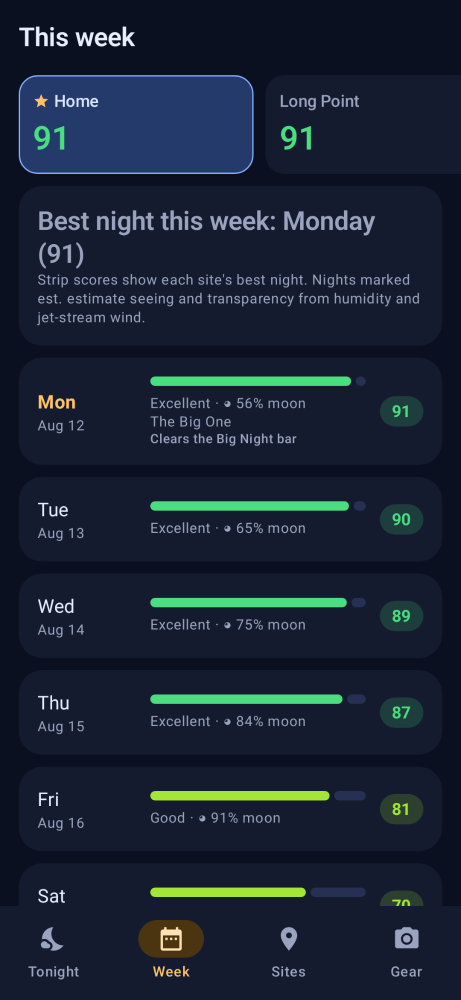
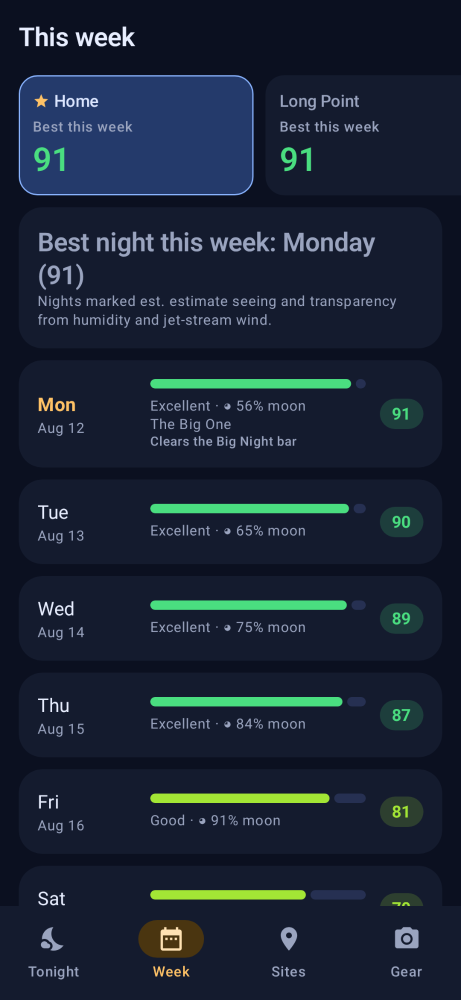
Label week site chips as each site's best night
The chips on Week used the same card as Tonight, but the number is
each site's best night. "Best this week" on the chip says which
number that is. Tonight's chips still show tonight's score.

diff --git a/app/src/test/kotlin/app/nightbrief/app/ui/WhimsyUiTest.kt b/app/src/test/kotlin/app/nightbrief/app/ui/WhimsyUiTest.kt
@@ -17,6 +17,7 @@ import app.nightbrief.app.AppViewModel
 import app.nightbrief.app.ui.common.Format
 import app.nightbrief.app.ui.theme.NightBriefTheme
 import app.nightbrief.app.ui.tonight.NightDetail
+import app.nightbrief.app.ui.tonight.TonightScreen
 import app.nightbrief.app.ui.week.WeekScreen
 import app.nightbrief.data.AppGraph
 import app.nightbrief.data.AppState
@@ -57,6 +58,8 @@ class WhimsyUiTest {
     val compose = createComposeRule()
 
     private val home = Site("home", "Home", 43.65, -79.38, "America/Toronto", bortle = 4)
+    private val cabin = Site("cabin", "Cabin", 44.0, -80.0, "America/Toronto", bortle = 3)
+    private val scoredNight = LocalDate.of(2024, 8, 12)
 
     @After
     fun tearDown() {
@@ -157,6 +160,59 @@ class WhimsyUiTest {
     }
 
     @Test
+    fun weekStripNamesEachSitesBestNightRatherThanTonight() {
+        val homeTonight = clearNight(home).scoreValue
+        val cabinTonight = clearNight(cabin).scoreValue
+        assertTrue("fixture should score tonight at home", homeTonight != null)
+        assertTrue("fixture should score tonight at the cabin", cabinTonight != null)
+        assertTrue(
+            "fixture tonight ($homeTonight, $cabinTonight) must differ from the week's best (40, 55)",
+            homeTonight != 40 && cabinTonight != 55 && homeTonight != 55 && cabinTonight != 40,
+        )
+        val vm = viewModelWith(bestNightBriefing())
+        compose.setContent {
+            NightBriefTheme {
+                WeekScreen(vm, onOpenNight = { _, _ -> }, onOpenEvents = {}, contentPadding = PaddingValues())
+            }
+        }
+        compose.waitUntil(timeoutMillis = 5_000) {
+            compose.onAllNodesWithText("40").fetchSemanticsNodes().isNotEmpty() &&
+                compose.onAllNodesWithText("55").fetchSemanticsNodes().isNotEmpty()
+        }
+        val captions = compose.onAllNodesWithText("Best this week").fetchSemanticsNodes().size
+        assertTrue("each week chip should name the score, found $captions", captions == 2)
+        assertTrue(
+            "week should show the best nights, not tonight's $homeTonight",
+            compose.onAllNodesWithText(homeTonight.toString()).fetchSemanticsNodes().isEmpty(),
+        )
+        assertTrue(
+            "the footnote should no longer explain the strip",
+            compose.onAllNodesWithText("Strip scores", substring = true).fetchSemanticsNodes().isEmpty(),
+        )
+    }
+
+    @Test
+    fun tonightStripLeavesTheScoreUnlabeled() {
+        val homeTonight = clearNight(home).scoreValue
+        assertTrue("fixture should score tonight", homeTonight != null)
+        val vm = viewModelWith(bestNightBriefing())
+        compose.setContent {
+            NightBriefTheme { TonightScreen(vm, onOpenSettings = {}, contentPadding = PaddingValues()) }
+        }
+        compose.waitUntil(timeoutMillis = 5_000) {
+            compose.onAllNodesWithText(homeTonight.toString()).fetchSemanticsNodes().isNotEmpty()
+        }
+        assertTrue(
+            "tonight's chips should not say the score is the week's best",
+            compose.onAllNodesWithText("Best this week").fetchSemanticsNodes().isEmpty(),
+        )
+        assertTrue(
+            "tonight should show tonight's score, not the week's best of 40",
+            compose.onAllNodesWithText("40").fetchSemanticsNodes().isEmpty(),
+        )
+    }
+
+    @Test
     fun meteorCardRowsStackWithoutOverlapping() {
         // November 15 carries the Leonids, so the card renders without a forecast.
         val report = NightPlanner.plan(home, LocalDate.of(2026, 11, 15), null, GearCatalog.exampleKit)
@@ -206,6 +262,74 @@ class WhimsyUiTest {
         assertTrue(
             "radiant row must sit above the Why control: $radiantBounds vs $whyBounds",
             radiantBounds.bottom <= whyBounds.top,
+        )
+    }
+
+    /** Tonight scores high; each site's best night is a different number, so the two tabs cannot share a chip. */
+    private fun bestNightBriefing(): BriefingSource = object : BriefingSource {
+        override suspend fun brief(
+            sites: List<Site>,
+            kit: GearKit,
+            outlookDays: Int,
+            forceRefresh: Boolean,
+        ): Briefing = Briefing(
+            Instant.EPOCH,
+            listOf(clearNight(home), clearNight(cabin)),
+            listOf(
+                WeeklyOutlook(home, listOf(outlookNight(40))),
+                WeeklyOutlook(cabin, listOf(outlookNight(55))),
+            ),
+        )
+
+        override suspend fun plan(site: Site, date: LocalDate, kit: GearKit): NightReport =
+            NightPlanner.plan(site, date, null, kit)
+    }
+
+    private fun viewModelWith(briefings: BriefingSource): AppViewModel {
+        val app = ApplicationProvider.getApplicationContext<Application>()
+        val graph = AppGraph.get(app)
+        graph.replaceSourcesForTest(QuietForecasts, briefings)
+        runBlocking {
+            graph.settings.update {
+                AppState(
+                    onboardingComplete = true,
+                    sites = SiteBook().add(home, makePrimary = true).add(cabin),
+                )
+            }
+        }
+        return AppViewModel(app)
+    }
+
+    private fun clearNight(site: Site): NightReport =
+        NightPlanner.plan(site, scoredNight, clearForecast(), GearCatalog.exampleKit)
+
+    private fun outlookNight(score: Int) = OutlookNight(
+        date = scoredNight,
+        score = score,
+        moonIllumination = 0.2,
+        darkness = Darkness.ASTRONOMICAL,
+        coverage = ForecastCoverage.FULL,
+    )
+
+    private fun clearForecast(): Forecast {
+        val start = Instant.parse("2024-08-12T00:00:00Z").epochSecond
+        return Forecast(
+            home.latitude,
+            home.longitude,
+            "best_match",
+            start,
+            (0 until 24 * 8).map {
+                HourlyWeather(
+                    epochSecond = start + it * 3600L,
+                    cloudCover = 5,
+                    humidity = 40,
+                    windKmh = 6.0,
+                    gustKmh = 8.0,
+                    jetStreamKmh = 70.0,
+                    seeing = 2,
+                    transparency = 2,
+                )
+            },
         )
     }
 

diff --git a/app/src/main/kotlin/app/nightbrief/app/ui/common/Components.kt b/app/src/main/kotlin/app/nightbrief/app/ui/common/Components.kt
@@ -227,13 +227,18 @@ fun ScorePill(score: Int?, modifier: Modifier = Modifier) {
 
 data class SiteChip(val id: String, val name: String, val score: Int?, val isPrimary: Boolean)
 
-/** Horizontal strip of saved sites with tonight's score for each. */
+/**
+ * Horizontal strip of saved sites.
+ * [scoreCaption] names what [SiteChip.score] is. Null leaves the number unlabeled, which Tonight
+ * uses for tonight's score. Week passes one because the number is each site's best night.
+ */
 @Composable
 fun SiteStrip(
     sites: List<SiteChip>,
     selectedId: String?,
     onSelect: (String) -> Unit,
     modifier: Modifier = Modifier,
+    scoreCaption: String? = null,
 ) {
     val rowState = rememberLazyListState()
     ReportGlassScroll(rowState.isScrollInProgress)
@@ -268,6 +273,14 @@ fun SiteStrip(
                         )
                     }
                     Spacer(Modifier.height(4.dp))
+                    if (scoreCaption != null) {
+                        Text(
+                            scoreCaption,
+                            style = MaterialTheme.typography.labelMedium,
+                            color = MaterialTheme.colorScheme.onSurfaceVariant,
+                        )
+                        Spacer(Modifier.height(2.dp))
+                    }
                     Text(
                         chip.score?.toString() ?: "—",
                         style = MaterialTheme.typography.headlineMedium,

diff --git a/app/src/main/kotlin/app/nightbrief/app/ui/week/WeekScreen.kt b/app/src/main/kotlin/app/nightbrief/app/ui/week/WeekScreen.kt
@@ -84,6 +84,7 @@ fun WeekScreen(
     val bigNightThreshold = state?.bigNightThreshold ?: BigNightAlerts.threshold
 
     val bottomInset = contentPadding.calculateBottomPadding()
+    val stripCaption = stringResource(R.string.week_strip_caption)
     Scaffold(
         contentWindowInsets = WindowInsets.systemBars.only(WindowInsetsSides.Horizontal),
         topBar = {
@@ -116,6 +117,7 @@ fun WeekScreen(
                             },
                             selectedId = siteId,
                             onSelect = vm::selectSite,
+                            scoreCaption = stripCaption,
                         )
                     }
                 }
@@ -173,6 +175,7 @@ fun WeekScreen(
                             },
                             selectedId = siteId,
                             onSelect = vm::selectSite,
+                            scoreCaption = stripCaption,
                         )
                     }
                 }

diff --git a/app/src/test/kotlin/app/nightbrief/app/ui/SiteStripTest.kt b/app/src/test/kotlin/app/nightbrief/app/ui/SiteStripTest.kt
@@ -38,4 +38,20 @@ class SiteStripTest {
         val height = bounds.bottom.value - bounds.top.value
         assertTrue("name stayed on one clipped line (${height}dp)", height > 30f)
     }
+
+    @Test
+    fun aCaptionNamesWhatTheScoreIs() {
+        compose.setContent {
+            NightBriefTheme {
+                SiteStrip(
+                    sites = listOf(SiteChip("home", "Home", 91, isPrimary = true)),
+                    selectedId = "home",
+                    onSelect = {},
+                    scoreCaption = "Best this week",
+                )
+            }
+        }
+        compose.onNodeWithText("Best this week").assertIsDisplayed()
+        compose.onNodeWithText("91").assertIsDisplayed()
+    }
 }

diff --git a/app/src/test/kotlin/app/nightbrief/app/ui/FoldableScreenshotTest.kt b/app/src/test/kotlin/app/nightbrief/app/ui/FoldableScreenshotTest.kt
@@ -130,6 +130,7 @@ class FoldableScreenshotTest {
                             ),
                             selectedId = home.id,
                             onSelect = {},
+                            scoreCaption = stringResource(R.string.week_strip_caption),
                         )
                     }
                     item(span = { GridItemSpan(maxLineSpan) }) {

diff --git a/app/src/test/kotlin/app/nightbrief/app/ui/ReadmeScreenshotTest.kt b/app/src/test/kotlin/app/nightbrief/app/ui/ReadmeScreenshotTest.kt
@@ -195,6 +195,7 @@ class ReadmeScreenshotTest {
                             ),
                             selectedId = home.id,
                             onSelect = {},
+                            scoreCaption = stringResource(R.string.week_strip_caption),
                         )
                     }
                     item {

diff --git a/README.md b/README.md
@@ -8,7 +8,7 @@ The screens below are the app's Compose UI for a clear August 2024 night at a Bo
 
 | Tonight | This week |
 | --- | --- |
-| ![Tonight: Home scores 91, Go, Excellent. Clear skies on the menu.](docs/screenshots/tonight.png) | ![This week: Monday is the best night](docs/screenshots/week.png) |
+| ![Tonight: Home scores 91, Go, Excellent. Clear skies on the menu.](docs/screenshots/tonight.png) | ![This week: each site chip is that site's best night, and Monday is the best](docs/screenshots/week.png) |
 
 | Perseids and an ISS pass | Gear |
 | --- | --- |
